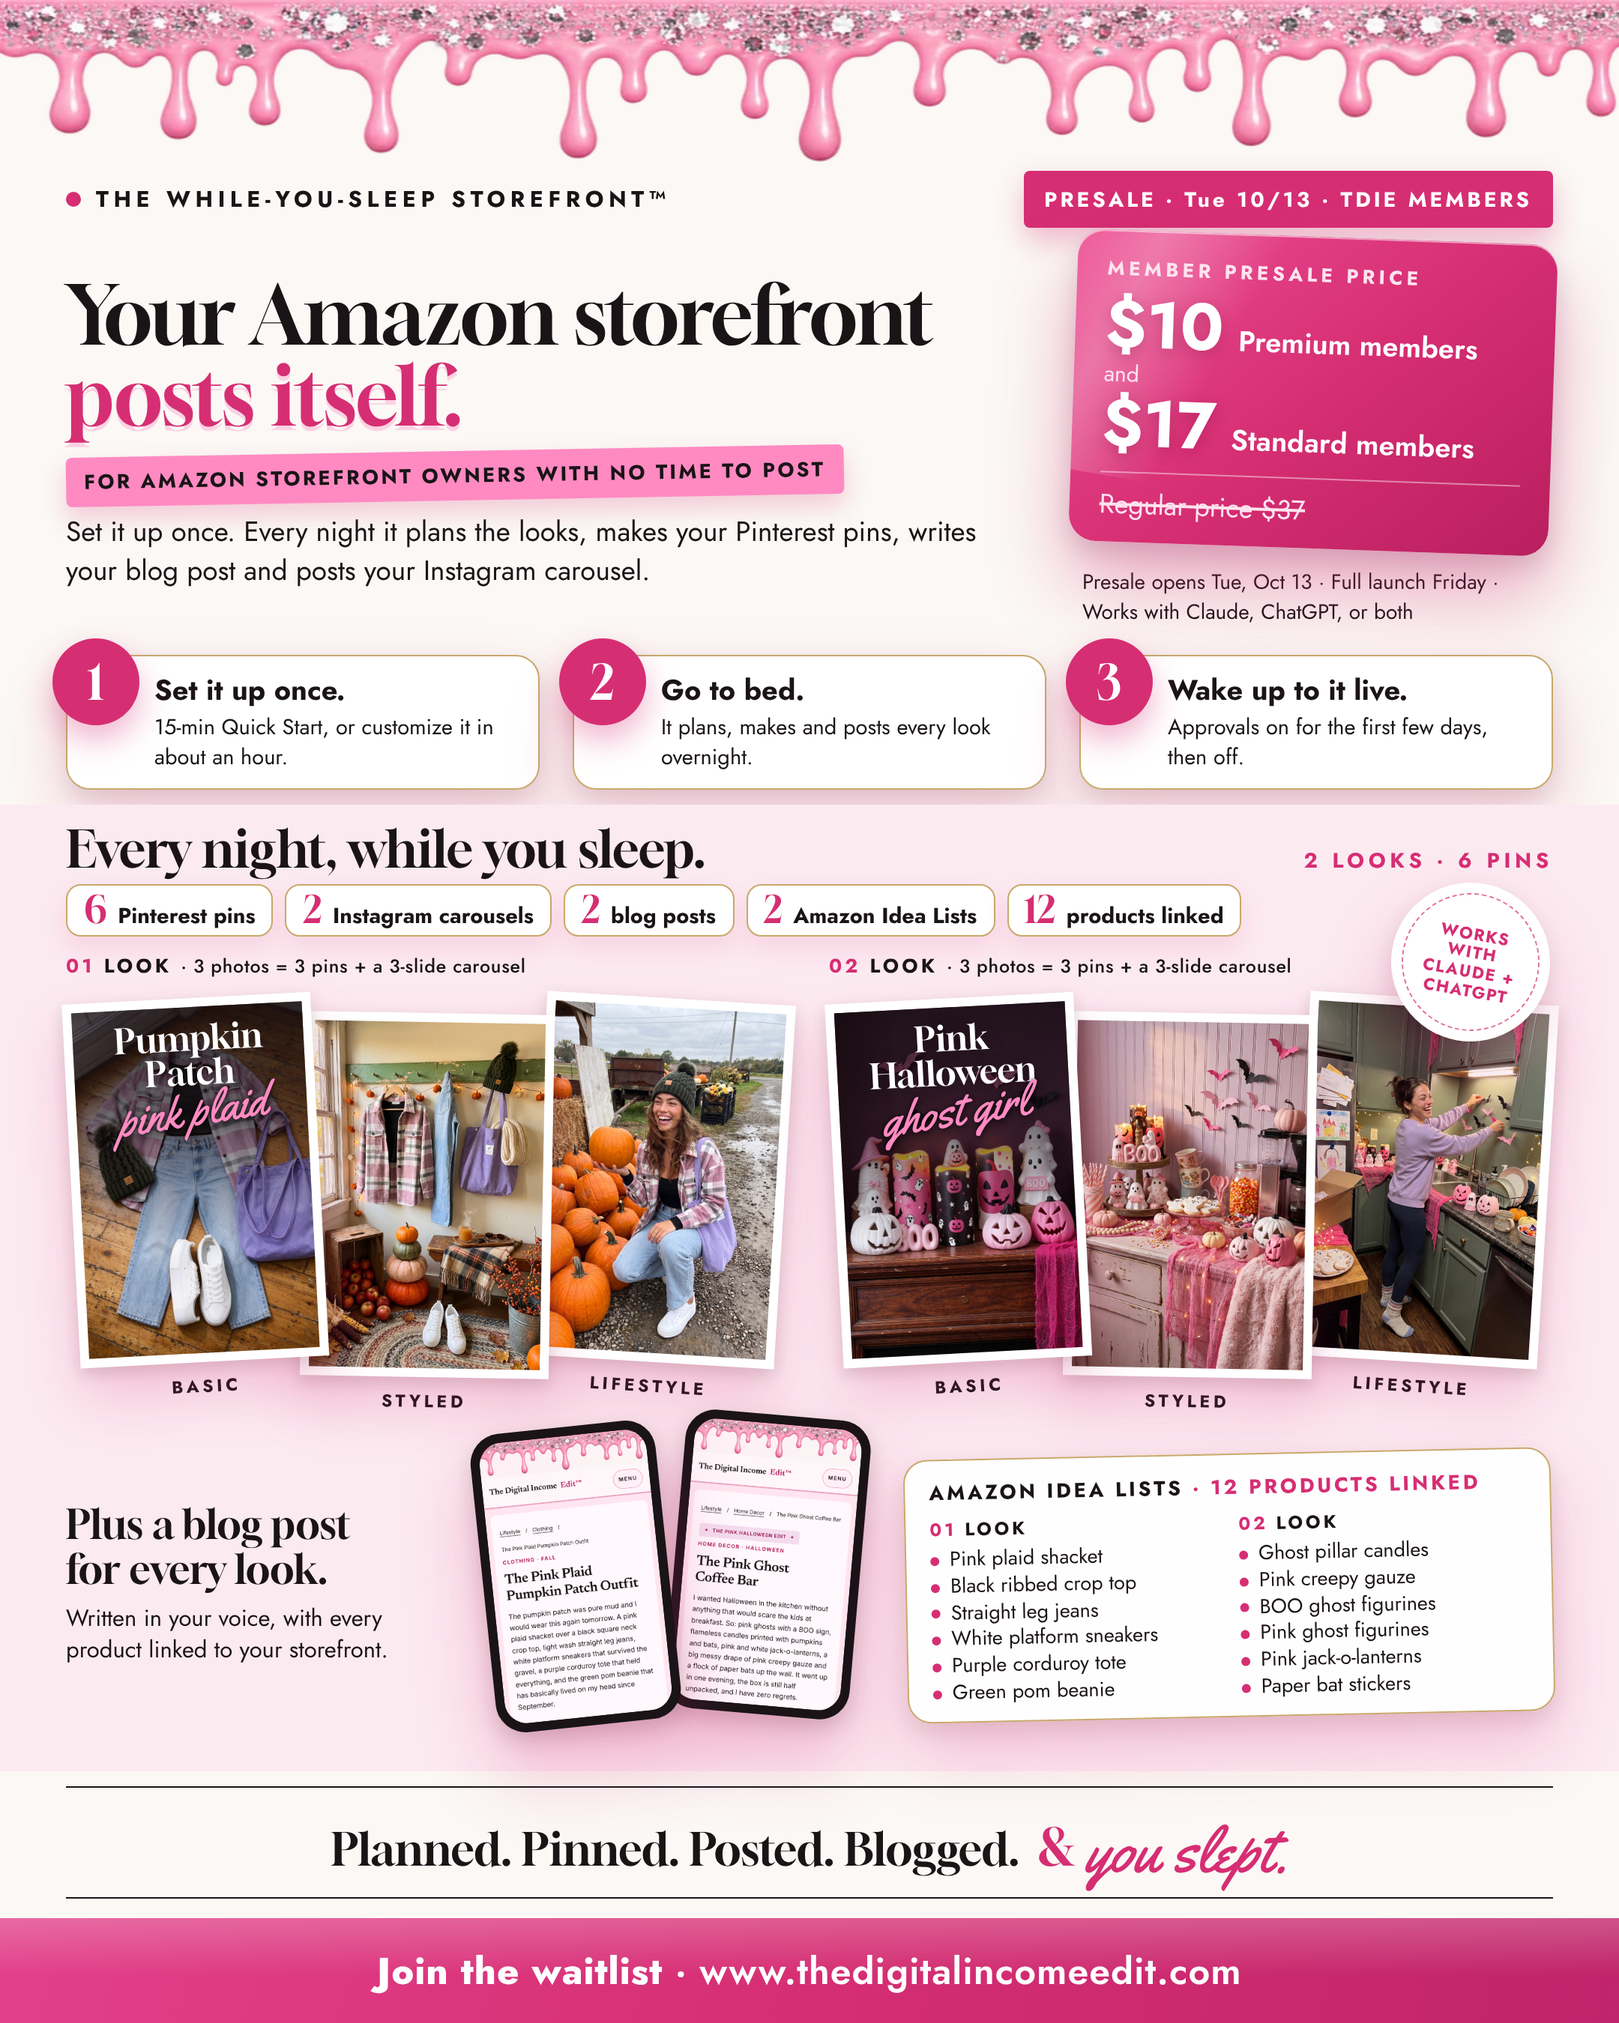
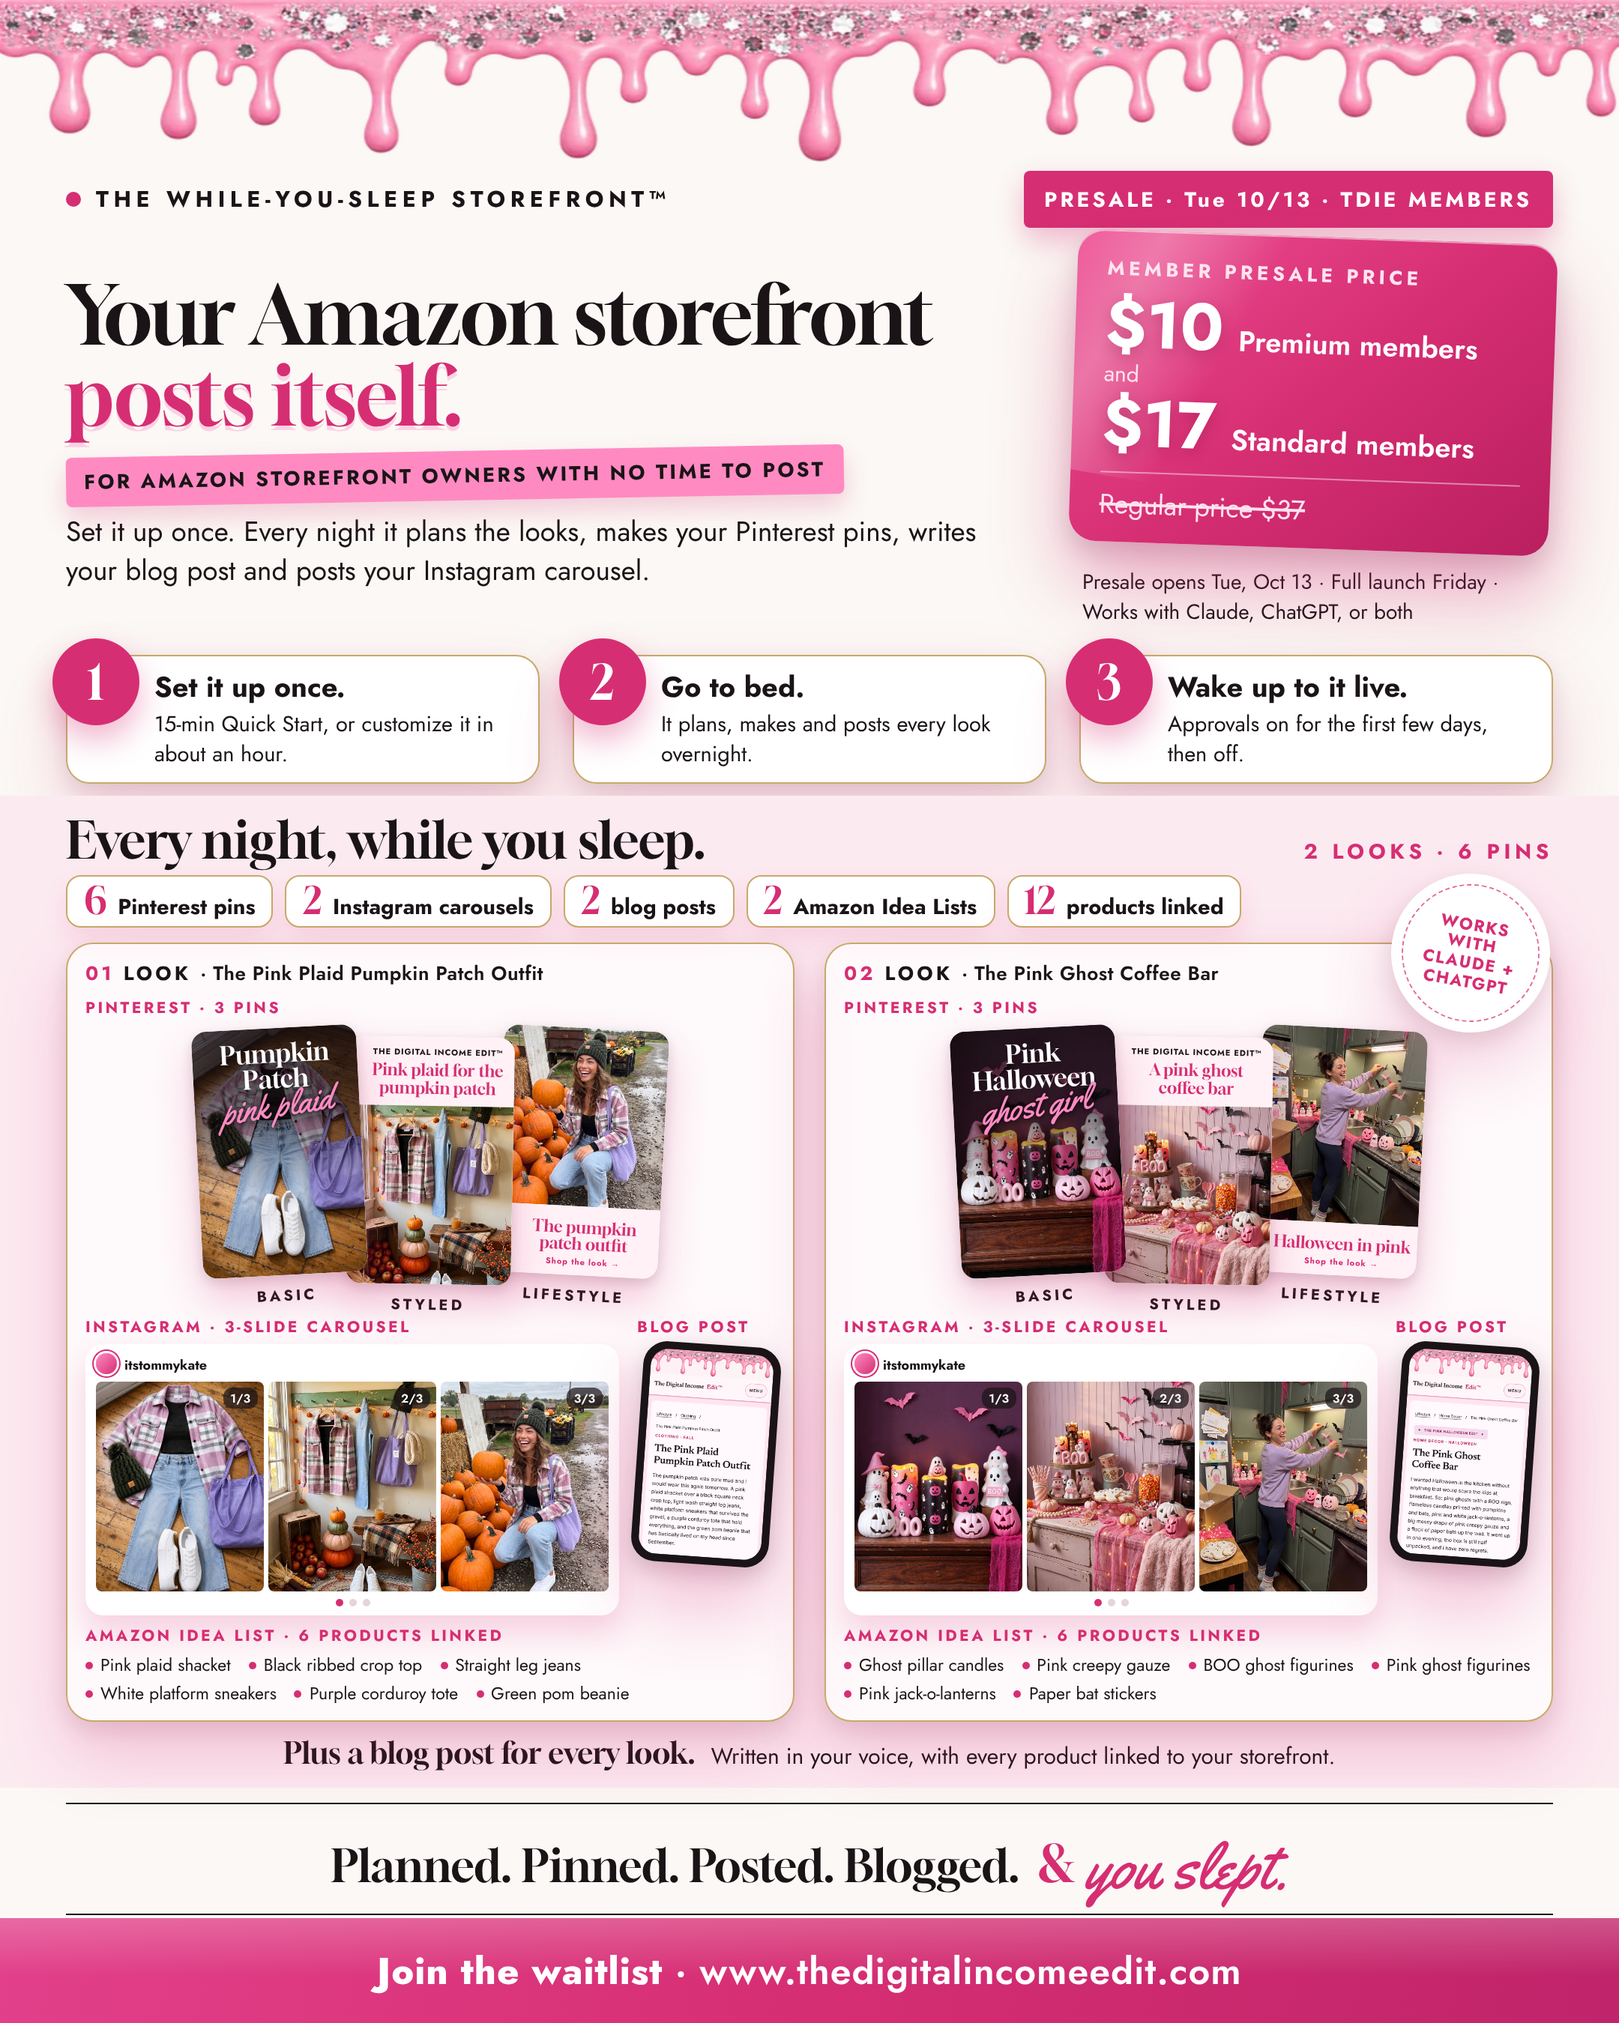
WYS poster: show the full nightly output per look
Each look now shows its 3 designed Pinterest pins, its 3-slide Instagram
carousel, its blog post and its Amazon Idea List.

Claude-Session: https://claude.ai/code/session_01PnXq8563XBZe9JqR7UM4ct

Changed region(s): [[0.031, 0.3422, 0.9926, 0.9644]]

diff --git a/ops/posters/wys-presale-2026-10/poster.html b/ops/posters/wys-presale-2026-10/poster.html
@@ -233,6 +233,98 @@ h2 { font-family:"Gloock",serif; font-weight:400; font-size:38px; line-height:1.
 .skool .hero-st { left:auto; right:50px; top:70px; width:128px; height:128px; font-size:13px; }
 .skool .hero-st { top:190px; right:30px; }
 .who-for { background:var(--bubble); color:var(--ink); box-shadow:0 8px 16px rgba(214,46,115,0.22); }
+
+/* ===== full-output looks ===== */
+.nights { display:grid; grid-template-columns:1fr 1fr; gap:22px; margin-top:12px; }
+.nl { background:rgba(255,255,255,0.7); border:1px solid var(--gold); border-radius:18px; padding:12px 14px 12px; box-shadow:var(--pinkshadow); position:relative; }
+.nl-head { font-weight:700; font-size:13px; letter-spacing:0.16em; }
+.nl-head .n { color:var(--hot); }
+.nl-head .t { letter-spacing:0.02em; font-weight:600; }
+.nl-label { font-weight:700; font-size:10.5px; letter-spacing:0.16em; text-transform:uppercase; color:var(--hot); margin:8px 0 5px; }
+.pins { display:flex; padding:2px 6px 0; }
+.pins > div { flex:1 1 0; min-width:0; position:relative; }
+.pins > div:nth-child(1) { transform:rotate(-3deg); z-index:3; margin-right:-10px; }
+.pins > div:nth-child(2) { transform:rotate(1deg) translateY(6px); z-index:2; margin-right:-10px; }
+.pins > div:nth-child(3) { transform:rotate(3deg); z-index:1; }
+.pin { position:relative; aspect-ratio:2/3; background:#fff; border-radius:10px; overflow:hidden; box-shadow:0 14px 26px rgba(214,46,115,0.25), 0 3px 8px rgba(26,20,23,0.14); display:flex; flex-direction:column; }
+.pin img { width:100%; flex:1; min-height:0; object-fit:cover; display:block; }
+.pin-top, .pin-bot { background:#FFF1F6; padding:6px 6px 5px; text-align:center; }
+.pin .k { display:block; font-weight:700; font-size:6px; letter-spacing:0.16em; color:var(--ink); }
+.pin .pt { display:block; font-family:"Gloock",serif; font-size:12px; line-height:1.05; color:var(--hot); margin:2px 0; }
+.pin-bot .k { color:var(--hot); font-size:7px; letter-spacing:0.06em; }
+.pin-basic .lockup { inset:0 0 auto 0; padding-top:9px; }
+.pin-basic .lockup .serif { font-size:19px; }
+.pin-basic .lockup .script { font-size:25px; }
+.nl .cap { font-size:10px; margin-top:6px; }
+.nl-row { display:grid; grid-template-columns:minmax(0,1fr) 92px; gap:12px; align-items:start; }
+.ig-card { background:#fff; border-radius:12px; padding:6px 7px 6px; box-shadow:0 12px 22px rgba(214,46,115,0.2); }
+.ig-top { display:flex; align-items:center; gap:5px; font-weight:700; font-size:9px; margin-bottom:5px; }
+.ig-top .av { width:14px; height:14px; border-radius:50%; background:linear-gradient(135deg,#FF8AC2,#D62E73); box-shadow:0 0 0 1.5px #fff, 0 0 0 2.5px var(--hot); }
+.ig-slides { display:grid; grid-template-columns:repeat(3,1fr); gap:4px; }
+.sl { position:relative; aspect-ratio:4/5; overflow:hidden; border-radius:4px; }
+.sl img { width:100%; height:100%; object-fit:cover; display:block; }
+.sl .no { position:absolute; right:4px; top:4px; background:rgba(26,20,23,0.7); color:#fff; font-size:8px; font-weight:600; padding:1px 5px; border-radius:6px; }
+.ig-dots { display:flex; justify-content:center; gap:4px; margin-top:5px; }
+.ig-dots i { width:5px; height:5px; border-radius:50%; background:#e5d4dc; }
+.ig-dots i.on { background:var(--hot); }
+.bl .phone { position:relative; left:auto; top:auto; width:92px; transform:rotate(4deg); border-radius:16px; padding:5px; }
+.bl .phone img { border-radius:12px; }
+.il ul { list-style:none; display:flex; flex-wrap:wrap; gap:3px 12px; }
+.il li { font-size:11.5px; padding-left:10px; position:relative; }
+.il li::before { content:""; position:absolute; left:0; top:0.5em; width:5px; height:5px; border-radius:50%; background:var(--hot); }
+.blogline { text-align:center; font-size:16px; margin-top:10px; }
+.blogline b { font-family:"Gloock",serif; font-weight:400; font-size:22px; margin-right:6px; }
+
+.skool .nights { grid-template-columns:1fr; gap:34px; margin-top:24px; }
+.skool .nl { padding:22px 26px; }
+.skool .nl-head { font-size:17px; }
+.skool .nl-label { font-size:13px; margin:14px 0 8px; }
+.skool .pins > div:nth-child(1), .skool .pins > div:nth-child(2) { margin-right:-18px; }
+.skool .pin .k { font-size:11px; }
+.skool .pin .pt { font-size:26px; }
+.skool .pin-top, .skool .pin-bot { padding:12px 10px 10px; }
+.skool .pin-bot .k { font-size:13px; }
+.skool .pin-basic .lockup { padding-top:22px; }
+.skool .pin-basic .lockup .serif { font-size:46px; }
+.skool .pin-basic .lockup .script { font-size:60px; }
+.skool .nl .cap { font-size:14px; margin-top:10px; }
+.skool .nl-row { grid-template-columns:minmax(0,1fr) 190px; gap:28px; margin-top:12px; }
+.skool .ig-card { padding:12px 14px 12px; border-radius:16px; }
+.skool .ig-top { font-size:15px; gap:8px; margin-bottom:10px; }
+.skool .ig-top .av { width:24px; height:24px; }
+.skool .ig-slides { gap:8px; }
+.skool .sl .no { font-size:12px; }
+.skool .ig-dots i { width:8px; height:8px; }
+.skool .bl .phone { width:190px; padding:8px; border-radius:26px; }
+.skool .bl .phone img { border-radius:18px; }
+.skool .il li { font-size:17px; }
+.skool .il ul { gap:6px 22px; }
+.skool .blogline { font-size:20px; margin-top:24px; }
+.skool .blogline b { font-size:30px; }
+.fb .bl .phone, .skool .bl .phone, .bl .phone { position:relative; left:auto; top:auto; z-index:auto; }
+.fb .bl .phone { width:92px; padding:5px; border-radius:16px; }
+.fb .pins { width:78%; margin:0 auto; }
+.fb .nl { padding:10px 12px 10px; }
+.fb .nl-label { margin:6px 0 4px; }
+.fb .nl-row { grid-template-columns:minmax(0,1fr) 92px; }
+.fb .nights { margin-top:10px; gap:20px; }
+.fb .blogline { margin-top:8px; font-size:15px; }
+.fb .blogline b { font-size:20px; }
+.fb .pin .pt { font-size:11px; }
+.fb .pin-basic .lockup .serif { font-size:17px; }
+.fb .pin-basic .lockup .script { font-size:23px; }
+.fb .ig-slides { gap:3px; }
+.fb .pins { width:70%; }
+.fb .step { padding:10px 14px 9px 58px; }
+.fb .steps { padding:12px 0 8px; }
+.pin .k { white-space:nowrap; letter-spacing:0.08em; }
+.fb .pin .k { font-size:5.5px; }
+.pin-top, .pin-bot { padding-left:4px; padding-right:4px; }
+.skool .hero-st { right:4px; top:150px; }
+.pin-bot { padding-left:14px !important; }
+.pin-top { padding-left:12px !important; }
+.skool .pin-bot { padding-left:26px !important; }
+.skool .pin-top { padding-left:24px !important; }
 </style>
 </head>
 <body>
@@ -279,46 +371,65 @@ h2 { font-family:"Gloock",serif; font-weight:400; font-size:38px; line-height:1.
         <div class="tag"><b>12</b><span>products linked</span></div>
       </div>
 
-      <div class="grid">
-        <section>
-          <div class="look">
-            <div class="look-name"><span class="n">01</span> Look <span class="becomes">· 3 photos = 3 pins + a 3-slide carousel</span></div>
-            <div class="trio">
-              <div><div class="shot"><img src="img/pink-plaid-pumpkin-patch-outfit-basic.jpg" alt=""><div class="lockup"><span class="serif">Pumpkin<br>Patch</span><span class="script">pink plaid</span></div></div><div class="cap">BASIC</div></div>
-              <div><div class="shot"><img src="img/pink-plaid-pumpkin-patch-outfit-styled.jpg" alt=""></div><div class="cap">STYLED</div></div>
-              <div><div class="shot"><img src="img/pink-plaid-pumpkin-patch-outfit-lifestyle.png" alt="" style="object-position:62% 50%"></div><div class="cap">LIFESTYLE</div></div>
+      <div class="nights">
+        <div class="nl">
+          <div class="nl-head"><span class="n">01</span> LOOK <span class="t">· The Pink Plaid Pumpkin Patch Outfit</span></div>
+          <div class="nl-label">Pinterest · 3 pins</div>
+          <div class="pins">
+            <div><div class="pin pin-basic"><img src="img/pink-plaid-pumpkin-patch-outfit-basic.jpg" alt=""><div class="lockup"><span class="serif">Pumpkin<br>Patch</span><span class="script">pink plaid</span></div></div><div class="cap">BASIC</div></div>
+            <div><div class="pin"><div class="pin-top"><span class="k">THE DIGITAL INCOME EDIT™</span><span class="pt">Pink plaid for the pumpkin patch</span></div><img src="img/pink-plaid-pumpkin-patch-outfit-styled.jpg" alt=""></div><div class="cap">STYLED</div></div>
+            <div><div class="pin"><img src="img/pink-plaid-pumpkin-patch-outfit-lifestyle.png" alt="" style="object-position:62% 50%"><div class="pin-bot"><span class="pt">The pumpkin patch outfit</span><span class="k">Shop the look →</span></div></div><div class="cap">LIFESTYLE</div></div>
+          </div>
+          <div class="nl-row">
+            <div class="ig">
+              <div class="nl-label">Instagram · 3-slide carousel</div>
+              <div class="ig-card">
+                <div class="ig-top"><span class="av"></span>itstommykate</div>
+                <div class="ig-slides">
+                  <div class="sl"><img src="img/pink-plaid-pumpkin-patch-outfit-basic.jpg" alt=""><span class="no">1/3</span></div>
+                  <div class="sl"><img src="img/pink-plaid-pumpkin-patch-outfit-styled.jpg" alt=""><span class="no">2/3</span></div>
+                  <div class="sl"><img src="img/pink-plaid-pumpkin-patch-outfit-lifestyle.png" alt="" style="object-position:62% 50%"><span class="no">3/3</span></div>
+                </div>
+                <div class="ig-dots"><i class="on"></i><i></i><i></i></div>
+              </div>
+            </div>
+            <div class="bl">
+              <div class="nl-label">Blog post</div>
+              <div class="phone"><img src="img/blog-pink-plaid-pumpkin-patch-outfit.png" alt=""></div>
             </div>
           </div>
-          <div class="look">
-            <div class="look-name"><span class="n">02</span> Look <span class="becomes">· 3 photos = 3 pins + a 3-slide carousel</span></div>
-            <div class="trio">
-              <div><div class="shot"><img src="img/pink-ghost-coffee-bar-basic.jpg" alt=""><div class="lockup"><span class="serif">Pink<br>Halloween</span><span class="script">ghost girl</span></div></div><div class="cap">BASIC</div></div>
-              <div><div class="shot"><img src="img/pink-ghost-coffee-bar-styled.jpg" alt=""></div><div class="cap">STYLED</div></div>
-              <div><div class="shot"><img src="img/pink-ghost-coffee-bar-lifestyle.png" alt="" style="object-position:60% 50%"></div><div class="cap">LIFESTYLE</div></div>
+          <div class="il"><div class="nl-label">Amazon Idea List · 6 products linked</div><ul><li>Pink plaid shacket</li><li>Black ribbed crop top</li><li>Straight leg jeans</li><li>White platform sneakers</li><li>Purple corduroy tote</li><li>Green pom beanie</li></ul></div>
+        </div>
+        <div class="nl">
+          <div class="nl-head"><span class="n">02</span> LOOK <span class="t">· The Pink Ghost Coffee Bar</span></div>
+          <div class="nl-label">Pinterest · 3 pins</div>
+          <div class="pins">
+            <div><div class="pin pin-basic"><img src="img/pink-ghost-coffee-bar-basic.jpg" alt=""><div class="lockup"><span class="serif">Pink<br>Halloween</span><span class="script">ghost girl</span></div></div><div class="cap">BASIC</div></div>
+            <div><div class="pin"><div class="pin-top"><span class="k">THE DIGITAL INCOME EDIT™</span><span class="pt">A pink ghost coffee bar</span></div><img src="img/pink-ghost-coffee-bar-styled.jpg" alt=""></div><div class="cap">STYLED</div></div>
+            <div><div class="pin"><img src="img/pink-ghost-coffee-bar-lifestyle.png" alt="" style="object-position:60% 50%"><div class="pin-bot"><span class="pt">Halloween in pink</span><span class="k">Shop the look →</span></div></div><div class="cap">LIFESTYLE</div></div>
+          </div>
+          <div class="nl-row">
+            <div class="ig">
+              <div class="nl-label">Instagram · 3-slide carousel</div>
+              <div class="ig-card">
+                <div class="ig-top"><span class="av"></span>itstommykate</div>
+                <div class="ig-slides">
+                  <div class="sl"><img src="img/pink-ghost-coffee-bar-basic.jpg" alt=""><span class="no">1/3</span></div>
+                  <div class="sl"><img src="img/pink-ghost-coffee-bar-styled.jpg" alt=""><span class="no">2/3</span></div>
+                  <div class="sl"><img src="img/pink-ghost-coffee-bar-lifestyle.png" alt="" style="object-position:60% 50%"><span class="no">3/3</span></div>
+                </div>
+                <div class="ig-dots"><i class="on"></i><i></i><i></i></div>
+              </div>
+            </div>
+            <div class="bl">
+              <div class="nl-label">Blog post</div>
+              <div class="phone"><img src="img/blog-pink-ghost-coffee-bar.png" alt=""></div>
             </div>
           </div>
-        </section>
-        <section class="blog">
-          <div class="sticker bubble"><span><b>12</b>products linked</span></div>
-          <div>
-            <h3>Plus a blog post for every look.</h3>
-            <p>Written in your voice, with every product linked to your storefront.</p>
-          </div>
-          <div class="phones">
-            <div class="phone"><img src="img/blog-pink-plaid-pumpkin-patch-outfit.png" alt=""></div>
-            <div class="phone"><img src="img/blog-pink-ghost-coffee-bar.png" alt=""></div>
-          </div>
-          <div class="lists">
-            <div class="lists-head">Amazon Idea Lists <span>· 12 products linked</span></div>
-            <div class="lists-cols">
-              <div><div class="ln"><span class="n">01</span> Look</div><ul>
-                <li>Pink plaid shacket</li><li>Black ribbed crop top</li><li>Straight leg jeans</li><li>White platform sneakers</li><li>Purple corduroy tote</li><li>Green pom beanie</li></ul></div>
-              <div><div class="ln"><span class="n">02</span> Look</div><ul>
-                <li>Ghost pillar candles</li><li>Pink creepy gauze</li><li>BOO ghost figurines</li><li>Pink ghost figurines</li><li>Pink jack-o-lanterns</li><li>Paper bat stickers</li></ul></div>
-            </div>
-          </div>
-        </section>
+          <div class="il"><div class="nl-label">Amazon Idea List · 6 products linked</div><ul><li>Ghost pillar candles</li><li>Pink creepy gauze</li><li>BOO ghost figurines</li><li>Pink ghost figurines</li><li>Pink jack-o-lanterns</li><li>Paper bat stickers</li></ul></div>
+        </div>
       </div>
+      <div class="blogline"><b>Plus a blog post for every look.</b> Written in your voice, with every product linked to your storefront.</div>
     </div>
 
     <section class="phrase"><span class="p">Planned. Pinned. Posted. Blogged.</span><span class="s"><span class="amp">&amp;</span>you slept.</span></section>
